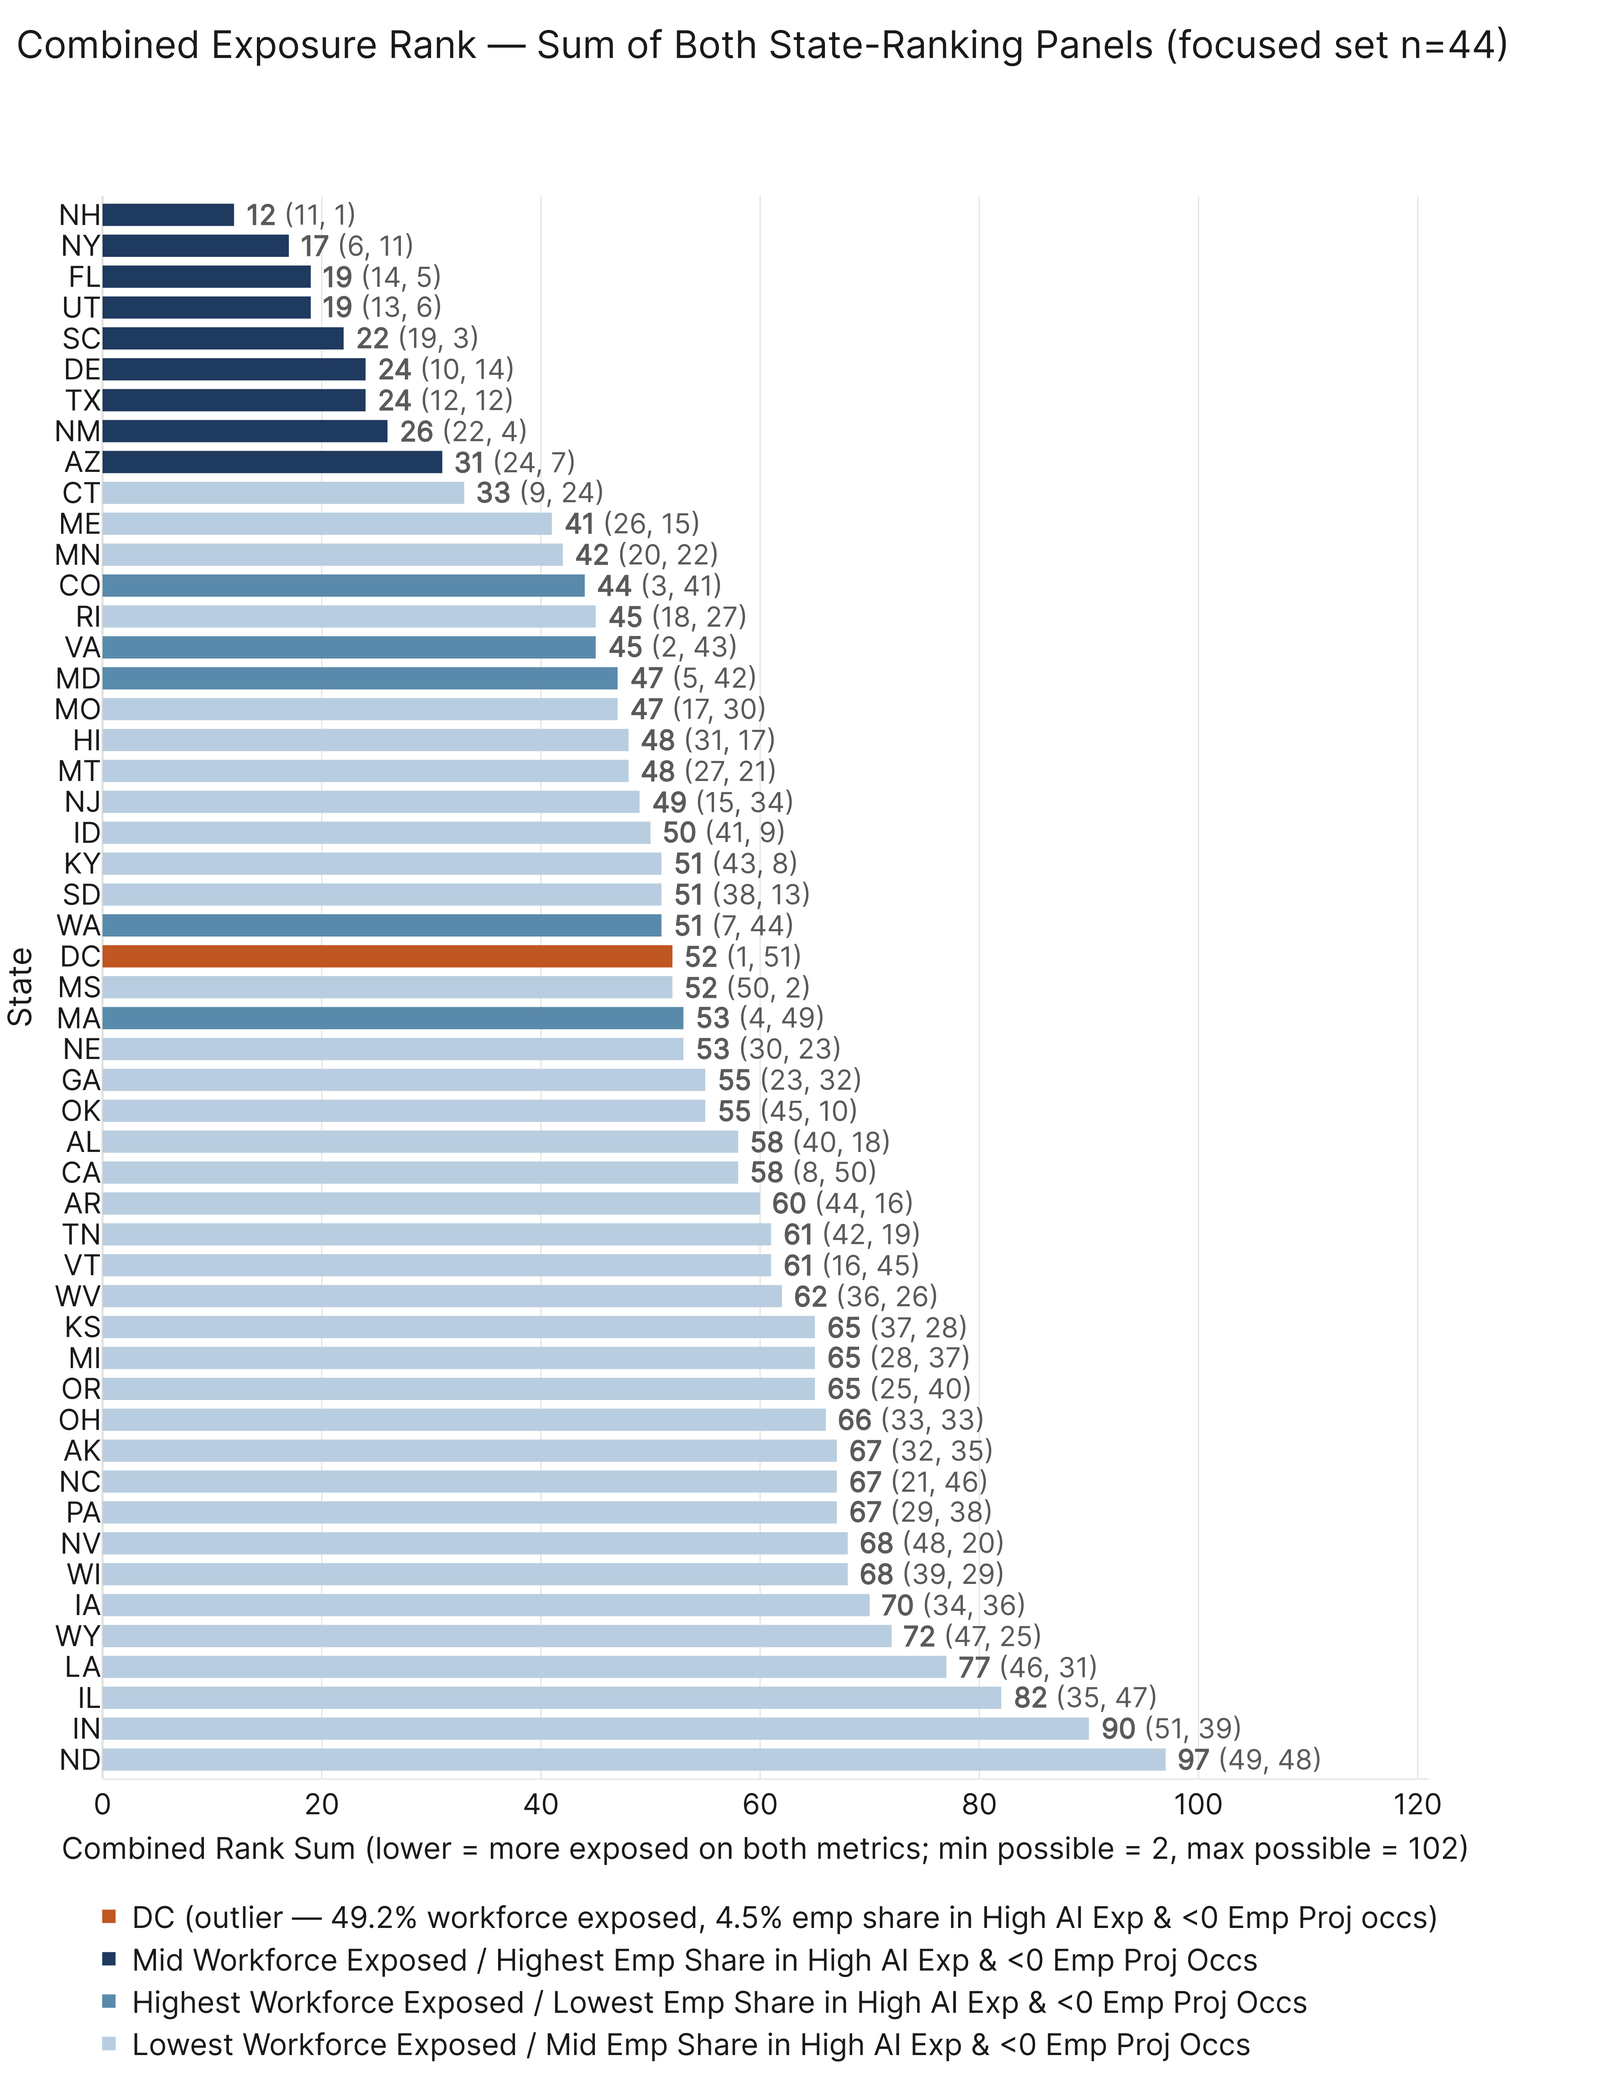
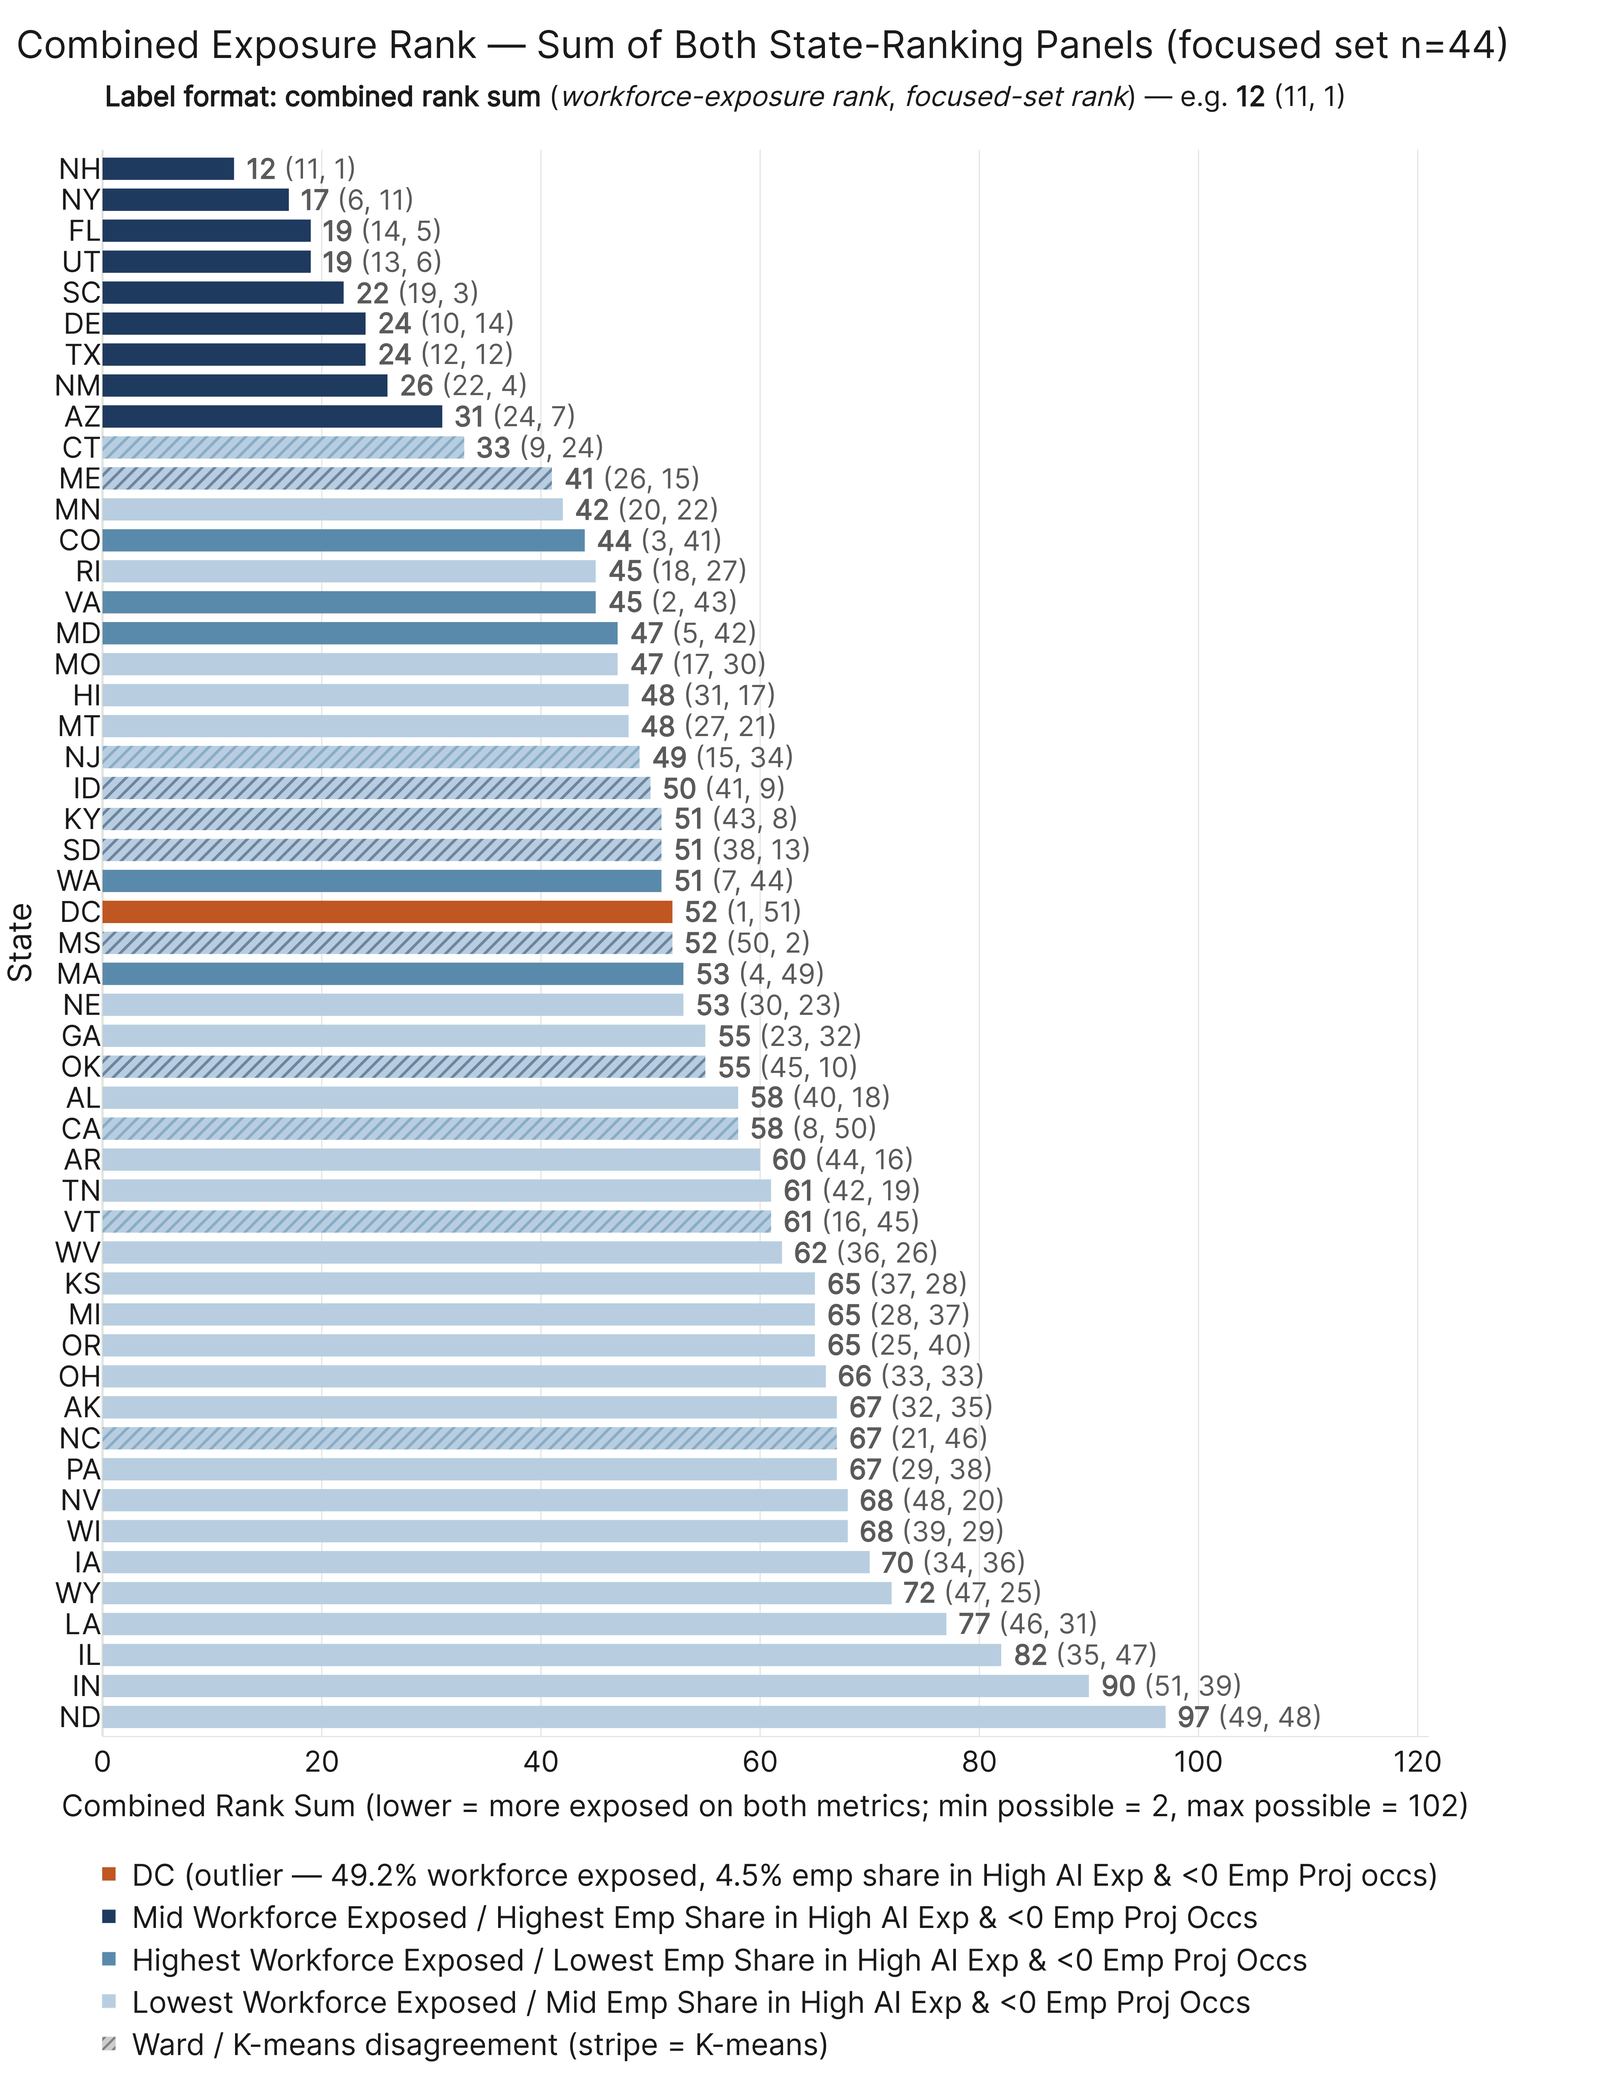
appendix: combined_ranked — add K-means stripe overlay + label-format key
Three changes:

- Mirror the each_ranked chart's Ward/K-means disagreement overlay:
  states where K-means picks a different cluster than Ward get a
  diagonal stripe in the K-means alt color (lifted from each_ranked's
  alignment logic). Adds a stripe legend entry to match.
- New header annotation under the title spells out the parenthetical:
  "Label format: combined rank sum (workforce-exposure rank,
  focused-set rank) — e.g. 12 (11, 1)". Reader doesn't have to
  consult the caption to know which number is which.
- Tighter top margin (170 → 130) plus title pulled to y=0.985 so the
  title + label-format key stack into a clean band instead of leaving
  empty whitespace above the bars.

diff --git a/analysis/paper/results/appendix/run.py b/analysis/paper/results/appendix/run.py
@@ -2741,6 +2741,8 @@ def build_state_clusters_combined_ranked(results: Path, figures: Path) -> None:
     try:
         from analysis.exploratory.deepdive_state_clusters.run import (
             compute_clusters, ALL_FEATURES,
+            _load_state_features, CLUSTER_FEATURES, OUTLIER_GEOS,
+            _pick_k_from_linkage,
         )
         from analysis.exploratory.deepdive_state_signal.run import (
             _load_focused_set,
@@ -2748,6 +2750,10 @@ def build_state_clusters_combined_ranked(results: Path, figures: Path) -> None:
     except ImportError as exc:
         print(f"  -> SKIPPED: exploratory/deepdive_state_clusters not available ({exc})")
         return
+
+    from sklearn.cluster import KMeans
+    from sklearn.preprocessing import StandardScaler
+    from scipy.cluster.hierarchy import linkage, fcluster
 
     # Pin k=3 to match Part 3's state_clusters_map and the companion
     # each_ranked chart above. See that function for the rationale.
@@ -2763,6 +2769,33 @@ def build_state_clusters_combined_ranked(results: Path, figures: Path) -> None:
     cluster_names  = pkg["cluster_names"]
     cluster_color  = pkg["cluster_color"]
     order          = pkg["order"]
+
+    # K-means / Ward disagreement alignment, lifted from each_ranked so
+    # the two charts mark the same set of striped states.
+    raw = _load_state_features()
+    sub_in = raw[~raw["geo"].isin(OUTLIER_GEOS)].copy().reset_index(drop=True)
+    Xz = StandardScaler().fit_transform(
+        sub_in[CLUSTER_FEATURES].to_numpy(dtype=float)
+    )
+    Z = linkage(Xz, method="ward")
+    k_, _ = _pick_k_from_linkage(Z, K_PIN, K_PIN)
+    ward_lab = fcluster(Z, t=k_, criterion="maxclust")
+    km_lab = KMeans(n_clusters=k_, n_init=20, random_state=42).fit_predict(Xz) + 1
+    aligned = np.zeros_like(km_lab)
+    for w in np.unique(ward_lab):
+        idx = ward_lab == w
+        majority = pd.Series(km_lab[idx]).mode().iloc[0]
+        aligned[km_lab == majority] = w
+    for i, v in enumerate(aligned):
+        if v == 0:
+            aligned[i] = km_lab[i] + 100
+    sub_in["ward_lab"] = ward_lab
+    sub_in["km_lab"] = aligned
+    km_alt_color: dict[str, str] = {
+        r["geo"].upper(): cluster_color.get(int(r["km_lab"]), "#777777")
+        for _, r in sub_in.iterrows()
+        if r["ward_lab"] != r["km_lab"]
+    }
 
     n_focused = len(_load_focused_set())
 
@@ -2808,6 +2841,7 @@ def build_state_clusters_combined_ranked(results: Path, figures: Path) -> None:
 
     fig = go.Figure()
 
+    # Base bars — one trace, single solid cluster color per state.
     fig.add_trace(go.Bar(
         y=geos, x=rank_sm, orientation="h",
         marker=dict(color=colors, line=dict(width=0)),
@@ -2823,9 +2857,34 @@ def build_state_clusters_combined_ranked(results: Path, figures: Path) -> None:
         ),
     ))
 
-    # Cluster legend swatches (focused-set n included on the cluster
-    # whose name references the focused set so the dynamic n stays
-    # visible somewhere on the chart).
+    # K-means stripe overlay — one trace per unique K-means color so
+    # the stripe color actually varies. Plotly 6.6 silently ignores
+    # per-bar marker.pattern.fgcolor arrays; splitting by color +
+    # barmode="overlay" is the documented workaround (see each_ranked).
+    def _overlay_groups(geos_l: list[str], vals: list[float]) -> dict[str, dict]:
+        groups: dict[str, dict] = {}
+        for g, v in zip(geos_l, vals):
+            if g not in km_alt_color:
+                continue
+            col = km_alt_color[g]
+            groups.setdefault(col, {"y": [], "x": []})
+            groups[col]["y"].append(g)
+            groups[col]["x"].append(v)
+        return groups
+
+    for km_color, payload in _overlay_groups(geos, rank_sm).items():
+        fig.add_trace(go.Bar(
+            y=payload["y"], x=payload["x"], orientation="h",
+            marker=dict(
+                color="rgba(0,0,0,0)",
+                pattern=dict(shape="/", fgcolor=km_color,
+                             solidity=0.30, size=8, fillmode="overlay"),
+                line=dict(width=0),
+            ),
+            showlegend=False, cliponaxis=False, hoverinfo="skip",
+        ))
+
+    # Cluster legend swatches + stripe-overlay legend swatch.
     for cid in order:
         fig.add_trace(go.Bar(
             y=[None], x=[None],
@@ -2833,6 +2892,16 @@ def build_state_clusters_combined_ranked(results: Path, figures: Path) -> None:
             name=cluster_names[cid],
             showlegend=True,
         ))
+    fig.add_trace(go.Bar(
+        y=[None], x=[None],
+        marker=dict(
+            color="#cccccc",
+            pattern=dict(shape="/", fgcolor="#333333",
+                         solidity=0.30, size=8, fillmode="overlay"),
+        ),
+        name="Ward / K-means disagreement (stripe = K-means)",
+        showlegend=True,
+    ))
 
     height = max(PAPER_H + 250, n_states * 30 + 280)
 
@@ -2846,12 +2915,15 @@ def build_state_clusters_combined_ranked(results: Path, figures: Path) -> None:
             "% workforce exposed and % employment in High AI Exposure & <0 "
             "Emp Proj occupations. States sorted ascending — most exposed on "
             "both metrics at top. Bar color = Ward cluster (matches previous "
-            "figure). End-of-bar label: combined rank sum (bold), followed by "
-            "(workforce rank, focused-set rank) in parentheses."
+            "figure); diagonal stripe = K-means disagreement. End-of-bar label: "
+            "combined rank sum (bold), followed by (workforce rank, focused-set "
+            "rank) in parentheses."
         ),
         height=height,
         width=PAPER_W,
-        margin=dict(l=40, r=160, t=170, b=200),
+        # Tighter top margin (was 170) but still wide enough to stack
+        # title above the label-format key without them overlapping.
+        margin=dict(l=40, r=160, t=130, b=200),
     )
 
     # End-of-bar label needs room for the longest case e.g. "97 (49, 48)".
@@ -2886,8 +2958,30 @@ def build_state_clusters_combined_ranked(results: Path, figures: Path) -> None:
                       family=FONT_FAMILY),
         )
 
+    # Label-format key sitting between the title and the plot area in
+    # the top margin, so the reader knows which number in the parens is
+    # which without consulting the caption.
+    fig.add_annotation(
+        xref="paper", yref="paper",
+        x=0.0, y=1.022,
+        xanchor="left", yanchor="bottom",
+        text=("<b>Label format:</b> "
+              "<b>combined rank sum</b> "
+              "(<i>workforce-exposure rank</i>, "
+              "<i>focused-set rank</i>) — e.g. <b>12</b> (11, 1)"),
+        showarrow=False,
+        font=dict(size=ANNOT_FS, color=PAPER_PALETTE["text"],
+                  family=FONT_FAMILY),
+    )
+
     fig.update_layout(
         bargap=0.28,
+        # "overlay" puts the K-means stripe traces on top of the base
+        # bars at the same y position (without it they'd render
+        # side-by-side and the stripes would land off-bar).
+        barmode="overlay",
+        # Title anchored at the top of the canvas so the label-format
+        # key annotation has room beneath it before the plot area.
         title=dict(y=0.985, yanchor="top"),
         legend=dict(
             orientation="h",

diff --git a/analysis/paper/results/appendix/README.md b/analysis/paper/results/appendix/README.md
@@ -13,7 +13,7 @@ Ordered to match the paper's chart flow — correlation, aggregate economy, tren
 - **temporal_trend_nonphys** — single-panel non-physical variant of Part 1's `temporal_trend`. % Tasks Exposed across the time series for All Confirmed (solid) vs All Sources / Ceiling (dashed), computed with `physical_mode='exclude'`. Shares the linear-OLS 2yr projection, staggered confirmed labels, and sparse ceiling labels with the main chart. Workers / wages panels omitted because a non-phys workers number requires splitting each occupation's employment between its phys and non-phys task load (out of scope).
 - **ska_knowledge_full / ska_abilities_full** — two element-level appendix charts, one per SKA type. Mirror the main-body Part 2 framing (bar = AI Top-10 Avg as % of workforce max, colored by phys-mix tier; AI Max ◆ + Workforce Mean ●), expanded to the full element list. Labels carry their O*NET subcategory in parentheses. Manual 3-row legend rendered via shapes + annotations (more reliable than Plotly multi-legend for the larger left-margin layouts). The skills element-level chart was promoted to the main body and now lives at `part_2/figures/ska_skills.png`.
 - **state_clusters_each_ranked** — companion to Part 3's `state_clusters_map`. Two-panel ranked bar chart with each panel sorted independently: left panel sorts the 51 states by % workforce exposed descending, right panel sorts by % in High AI Exp & <0 Emp Proj occupations descending. Cluster colors (Ward labels from `deepdive_state_clusters.compute_clusters()`) stay consistent across panels — a state's color is the same in both, so the reader can compare its left rank vs. right rank visually. Knowledge-economy states (mid blue) top the left panel but sit near the bottom of the right; the high-vulnerability cluster (dark blue) dominates the top of the right panel and spreads through the middle of the left.
-- **state_clusters_combined_ranked** — companion to `state_clusters_each_ranked`. Each state's rank on the two panels above is summed (rank 1 = highest exposure per panel, so lower combined rank = more exposed on BOTH metrics). States sorted ascending by combined rank — most exposed on both at top. Single horizontal bar per state colored by Ward cluster (palette matches the panel chart above). End-of-bar label: bold combined rank sum followed by `(workforce rank, focused-set rank)` in parentheses. Reads as a single-number summary of where the two ranking axes agree (and where outliers like DC, #1 on workforce but #51 on focused, land mid-pack).
+- **state_clusters_combined_ranked** — companion to `state_clusters_each_ranked`. Each state's rank on the two panels above is summed (rank 1 = highest exposure per panel, so lower combined rank = more exposed on BOTH metrics). States sorted ascending by combined rank — most exposed on both at top. Single horizontal bar per state colored by Ward cluster (palette matches the panel chart above); diagonal stripe overlay marks Ward/K-means disagreement states with the K-means alternative cluster color, same convention as the panel chart. End-of-bar label: bold combined rank sum followed by `(workforce rank, focused-set rank)` in parentheses. Header annotation under the title spells out the label format so the reader doesn't have to consult the caption. Reads as a single-number summary of where the two ranking axes agree (and where outliers like DC, #1 on workforce but #51 on focused, land mid-pack).
 - **underadoption_gap** — per-major underadoption relative to potential as informed by task exposure. `raw_gap = pct_tasks_affected / ratio_full_pct` (Part 3 intensity model's full-eco share of AI usage), then anchored on Office and Administrative Support so values read as a clean multiple: `gap_ratio = raw_gap / raw_gap[Office and Admin]`. Office sits at x=1 with a dashed median line; majors above 1 are more underadopted than the anchor, below 1 less. Color encodes `pct_tasks_affected` with the same gradient legend as `intensity_anchor_fulleco`. Reads as the companion to that chart — same anchor, same median framing. **Both sides of the gap ratio use `AEI Both 2025 2026-02-12` (AEI-only, eco_2025-rebased, no Microsoft) — see Config below.**
 - **intensity_drivers_{occ,task}_{comp_math,arts_design_ent,life_phys_soc_sci}** — six within-major decompositions of Part 3's `intensity_anchor_fulleco` for the three high-lift majors (Computer/Mathematical, Arts/Design/Entertainment, Life/Phys/Sci). Per occ or task: `lift = (Σ debiased adj_pct / Σ freq×emp) ÷ within-major median ratio`. Bars are top-10 by lift, sorted descending. Color: `pct_tasks_affected` on occ charts (mirrors main body), `auto_aug_mean` on task charts. Outside text on each bar shows `lift× (raw pct)` where raw pct is the un-debiased `pct_normalized` sum. Task charts use the original task statement (with case + punctuation), not `task_normalized`. Median annotation only on occ charts (task charts' long wrapped labels and tight title spacing leave no room above the plot). **Uses `AEI Both 2025 2026-02-12` (no Microsoft) — see Config below.**
 - **adoption_friction_scatter** — two-panel occupation-level scatter testing the Section 3 adoption-layer prediction that risk (`r`) and deployment friction (`df`) discriminate exposure once capability is roughly held constant. Restricted to the 409 occupations whose unique-task share of physical tasks is `< 33%` (Part 2's Non-Physical bucket); one dot per occupation. X-axis is the unweighted mean of the friction property across **all** of that occupation's tasks (from `data/final_eco_2025_with_task_properties.csv`, the same 12-property file `audit_task_properties` uses) — the non-physical restriction lives at the occupation level only, so no double-filter at task level. Y-axis is % Tasks Exposed under `all_confirmed`. Dot color mirrors y (light → dark blue ramp). Dashed OLS fit with a Spearman ρ inset per panel. Headline: ρ = −0.50*** for `r`, −0.42*** for `df`, both n = 409, p &lt; .001. Notes: freq×emp weighting was tried and washes the cross-occ variance out; major-level rollups within non-phys give ρ ≈ 0 — the property discrimination lives at occupation level here.
